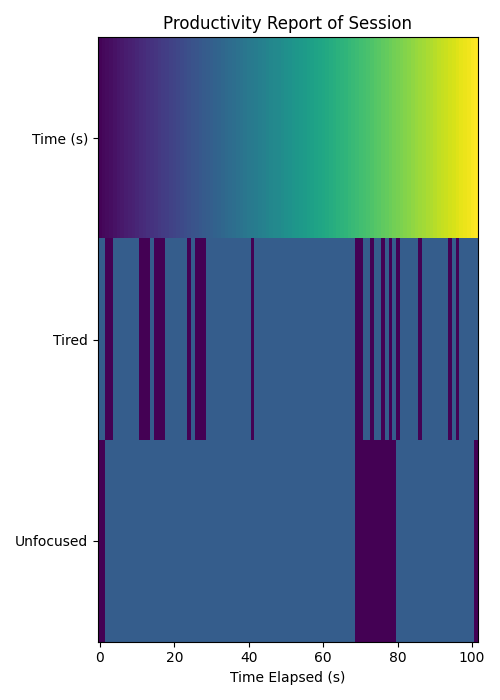
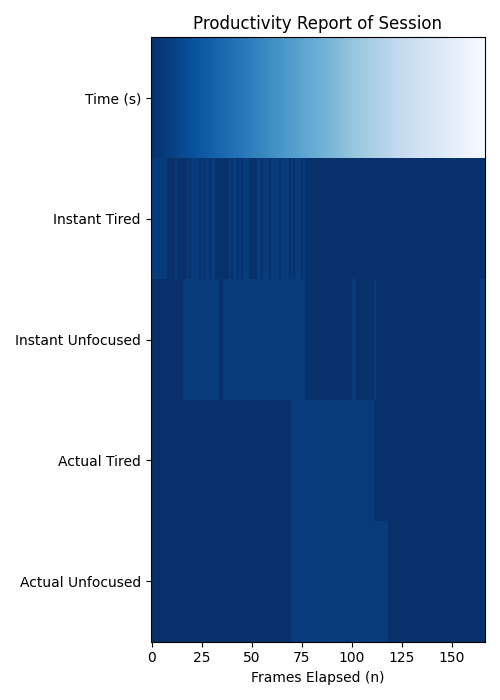
FINAL MAIN PUSH

diff --git a/main.py b/main.py
@@ -14,27 +14,32 @@ import matplotlib.pyplot as plt
 from eyetracker.eyetracker import determine_focus_status
 from cnn_running import fatigue_pred
 
-tired_threshold = 0.1
-focus_threshold = 0.1
+tired_threshold = 0.25
+focus_threshold = 0.25
 
 user_data = []
 frame_number = 1
 cur_tired, cur_focus = "", ""
 text_font = cv2.FONT_HERSHEY_SIMPLEX
 time_data, tired_data, unfocus_data = [], [], []
+globtired_data, globunfocus_data = [], []
 popup_tired = False
 popup_unfocus = False
 
 def check_tiredness(tired_data):
     if len(tired_data) > 70:
         if tired_data[-51:-1].count(True)/50 >= tired_threshold:
+            globtired_data.append(True)
             return True
+    globtired_data.append(False)
     return False
 
 def check_unfocusness(unfocus_data):
     if len(unfocus_data) > 70:
         if unfocus_data[-51:-1].count(True)/50 >= tired_threshold:
+            globunfocus_data.append(True)
             return True
+    globunfocus_data.append(False)
     return False
 
 def plot_report(user_data):
@@ -42,14 +47,18 @@ def plot_report(user_data):
     plt.rcParams["figure.autolayout"] = True
 
     data = user_data
+    user_data.append(globtired_data)
+    user_data.append(globunfocus_data)
     fig = plt.figure()
     ax = fig.add_subplot(111)
-    ax.imshow(data, aspect='auto', cmap="viridis", interpolation='nearest')
-    section_labels = ['Time (s)', 'Tired', 'Unfocused']
+    ax.imshow(data, aspect='auto', cmap="Blues_r", interpolation='nearest')
+    section_labels = ['Time (s)', 'Instant Tired', 'Instant Unfocused', 'Actual Tired', 'Actual Unfocused'] 
     ax.set_title("Productivity Report of Session")
     ax.set_yticks(range(len(section_labels)))
     ax.set_yticklabels(section_labels)
-    ax.set_xlabel('Time Elapsed (s)')
+    # x_val = np.linspace(0, user_data[0][-1], 5)
+    # ax.set_xticklabels(x_val)
+    ax.set_xlabel('Frames Elapsed (n)')
     fig.savefig('prodreport.png')
     plt.show()
 
@@ -62,7 +71,7 @@ while True:
     frame = imutils.resize(frame,width = 1080) 
     gray = cv2.cvtColor(frame, cv2.COLOR_BGR2GRAY)
     res = cascade_classifier.detectMultiScale(gray, 1.3, 5)
-    time = round(frame_number/30, 2)
+    time = round((4*frame_number)/30, 2)
     time_data.append(time)
 
     if len(res) > 0:
